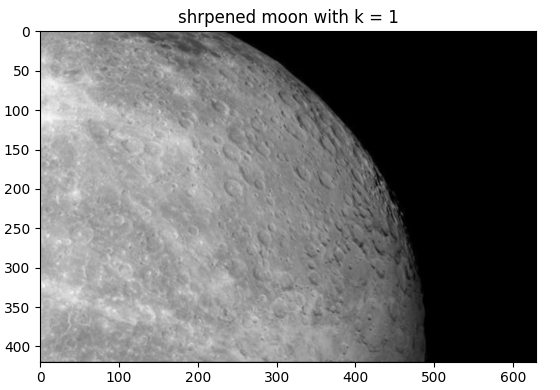
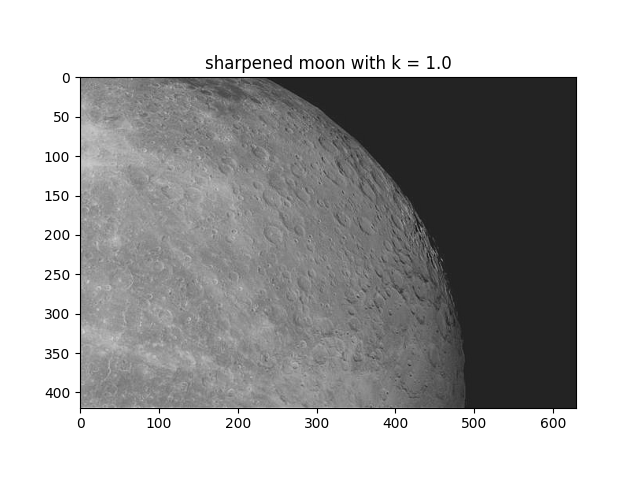
update

diff --git a/homework/homework1/code/p1/p1c.py b/homework/homework1/code/p1/p1c.py
@@ -28,13 +28,13 @@ for i in tqdm.tqdm(range(0, w, step_size)):
 
                 # get the mirror pixel
                 if x_idx < 0:
-                    x_idx = w + x_idx
+                    x_idx = 0
                 elif x_idx >= w:
-                    x_idx = x_idx - w
+                    x_idx = w - 1
                 if y_idx < 0:
-                    y_idx = h + y_idx
+                    y_idx = 0
                 elif y_idx >= h:
-                    y_idx = y_idx - h
+                    y_idx = h - 1
 
                 patch[x + patch_range, y + patch_range] = origin_tire[x_idx, y_idx]
 
@@ -58,14 +58,30 @@ for i in tqdm.tqdm(range(0, w, step_size)):
                 x_idx = i + x
                 y_idx = j + y
 
+                # if x_idx < 0:
+                #     x_idx = w + x_idx
+                # elif x_idx >= w:
+                #     x_idx = x_idx - w
+                # if y_idx < 0:
+                #     y_idx = h + y_idx
+                # elif y_idx >= h:
+                #     y_idx = y_idx - h
+                # if x_idx < 0:
+                #     x_idx = -x_idx
+                # elif x_idx >= w:
+                #     x_idx = 2 * w - x_idx - 1
+                # if y_idx < 0:
+                #     y_idx = -y_idx
+                # elif y_idx >= h:
+                #     y_idx = 2 * h - y_idx - 1
                 if x_idx < 0:
-                    x_idx = w + x_idx
+                    x_idx = 0
                 elif x_idx >= w:
-                    x_idx = x_idx - w
+                    x_idx = w - 1
                 if y_idx < 0:
-                    y_idx = h + y_idx
+                    y_idx = 0
                 elif y_idx >= h:
-                    y_idx = y_idx - h
+                    y_idx = h - 1
 
                 output_tire[x_idx, y_idx] = prefix_gray[origin_tire[x_idx, y_idx]]
 

diff --git a/homework/homework1/code/p2/p2c.py b/homework/homework1/code/p2/p2c.py
@@ -9,22 +9,21 @@ w, h = origin_moon.shape
 # two types of smoothing filter for blurring the origin image
 smooth_filter = [np.array([[1, 1, 1], [1, 1, 1], [1, 1, 1]]) / 9, np.array([[1, 2, 1], [2, 4, 2], [1, 2, 1]]) / 16]
 for i, filter in enumerate(smooth_filter):
+    # blurred image
     smoothed_moon = convolution(origin_moon, filter)
     plt.imshow(normalization(smoothed_moon), cmap='gray')
     plt.title('smoothed moon with filter ' + str(i + 1))
     plt.show()
     
-    # blurred image
-    blurred_moon = origin_moon - smoothed_moon
-    plt.imshow(normalization(blurred_moon), cmap='gray')
+    # unsharp image
+    unsharp_mask = origin_moon - smoothed_moon
+    plt.imshow(normalization(unsharp_mask), cmap='gray')
     plt.title('unsharp mask')
     plt.show()
 
-    # unsharp image
-    unsharp_mask = origin_moon - blurred_moon
-    for k in [1, 4.5]:
+    for k in [1.0, 4.5]:
         # sharpened image
-        shrpened_moon = origin_moon + k * unsharp_mask
-        plt.imshow(normalization(shrpened_moon), cmap='gray')
-        plt.title('shrpened moon with k = ' + str(k))
+        sharpened_moon = origin_moon + k * unsharp_mask
+        plt.imshow(sharpened_moon, cmap='gray')
+        plt.title('sharpened moon with k = ' + str(k))
         plt.show()

diff --git a/homework/homework1/code/p2/p2_convolution.py b/homework/homework1/code/p2/p2_convolution.py
@@ -8,7 +8,7 @@ def convolution(image, kernel):
     # zero padding for the image to make sure the output image has the same size as the input image
     x_size = m // 2
     y_size = n // 2
-    image = np.pad(image, ((x_size, x_size), (y_size, y_size)), mode='constant', constant_values=0)
+    image = np.pad(image, ((x_size, x_size), (y_size, y_size)), mode='edge')
     w, h = image.shape
 
     new_image = np.zeros((w, h), dtype=float)
@@ -18,7 +18,6 @@ def convolution(image, kernel):
             for s in range(-x_size, x_size + 1):
                 for t in range(-y_size, y_size + 1):
                     sum += kernel[s + x_size, t + y_size] * image[i - s, j - t]
-
             new_image[i, j] = sum
     
     # ignore the padding part

diff --git a/homework/homework1/README.md b/homework/homework1/README.md
@@ -1,11 +1,22 @@
-requirements:
-typing
-matplotlib
-numpy
-tqdm
+To set up the environment for running the code, follow the steps below:
+```bash
+conda create -n CS270 python=3.10
+conda activate CS270
+pip install -r requirements.txt
+```
 
+To run the code, use the following command:
+```bash
+cd ./$PATH_TO_THIS_REPO
+python ./code/$problem_number/$subproblem_number.py
+```
 
-to run the code:
-In current path(same path with the README file)
+Where problem numbers are
+```bash
+p1, p2, p3
+```
 
-python ./code/p1/p1a.py
+subproblem numbers are
+```bash
+p1a, p1b, p1c, p2a, p2b, p2c, p3a, p3b
+```
